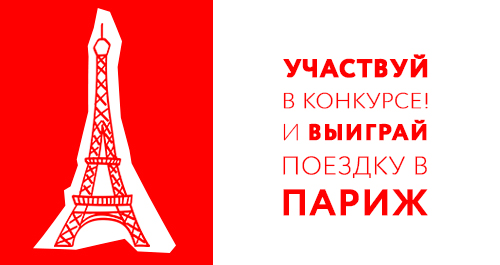
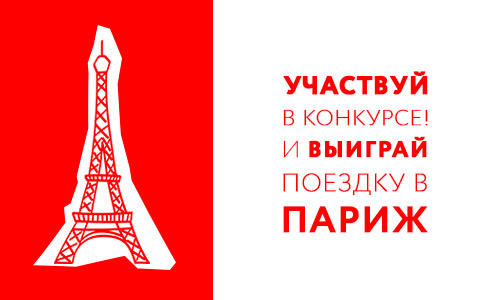
ESHOP-805 | добавить импут поля на промо-странице 2=1

diff --git a/development/less/pages/promo-page/promo-page.less b/development/less/pages/promo-page/promo-page.less
@@ -254,7 +254,7 @@
 		position: 			relative;
 		background-color: 	#f8f8f8;
 
-		padding: 			26px 0 50px;
+		padding: 			50px 0;
 
 		@border: 			1px solid #cbcbcb;
 
@@ -281,11 +281,13 @@
 		}
 
 		&-image {
+			//margin-top: 10px;
 			position: 	relative;
 			display: 	block;
 			float: 		left;
 			width: 		50%;
-			height: 	264px;
+			height: 	300px;
+			overflow: 	hidden;
 
 			@media @touch{
 				display: none;
@@ -309,21 +311,36 @@
 				font: 30px/30px 'Circe-Light';
 				font-weight: 		100;
 				text-transform: 	uppercase;
-				margin-bottom: 		20px;
+				margin-bottom: 		30px;
 				text-align: center;
 			}
 
 			.form__field {
 				width: 300px;
-				margin: 48px auto 0;
+				margin: 0px auto 32px;
 				position: relative;
 
 				@media @tablet-under {
 					height: 35px;
 				}
 
+				&-error {
+					display: 	block;
+					position: 	absolute;
+					right: 		0;
+					width: 		100px;
+					height: 	20px;
+					text-transform: uppercase;
+					top: 		-18px;
+					text-align: right;
+					color: 		black;
+					font-size: 	10px;
+					color: 		@color-red;
+					//border: 	1px solid red;
+				}
+
 				&-label{
-					font: 12px/30px 'Circe';
+					font: 11px/30px 'Circe';
 					color: #333;
 					text-transform: uppercase;
 					position: relative;
@@ -341,11 +358,17 @@
 					@media @tablet-under {
 						padding-left: 15px;
 					}
+
+					&::placeholder {
+					  color: #aaa;
+					}
 				}
 
 				&.numbers {
+
 					input {
 						font: 24px 'Circe-Light';
+						color: #333;
 					}
 				}
 
@@ -423,7 +446,8 @@
 				&-btn{
 					display: block;
 					width: 300px;
-					margin: 25px auto 0;
+					margin: 0 auto;
+					margin-top: -10px;
 					background: @color-red;
 					color: #fff;
 					font: 12px/40px 'Circe-Light';
